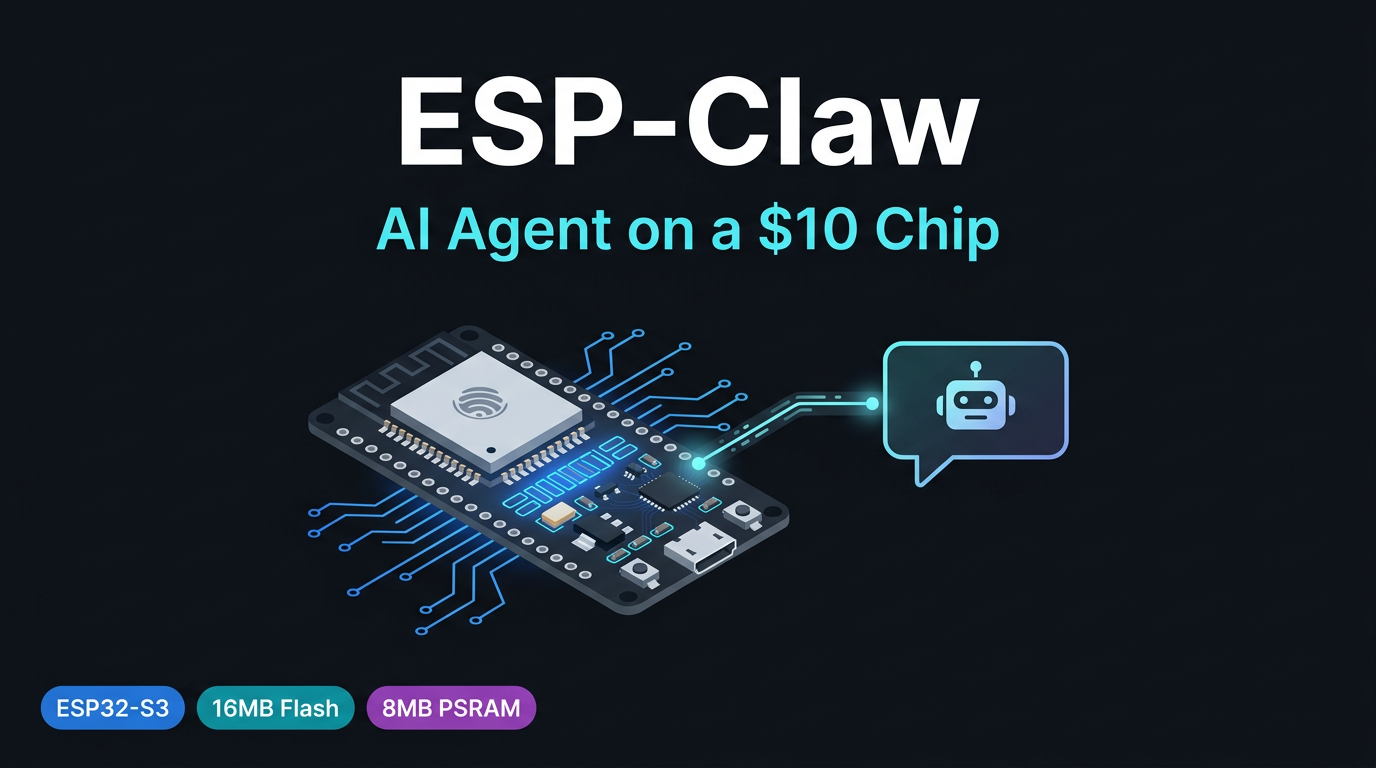
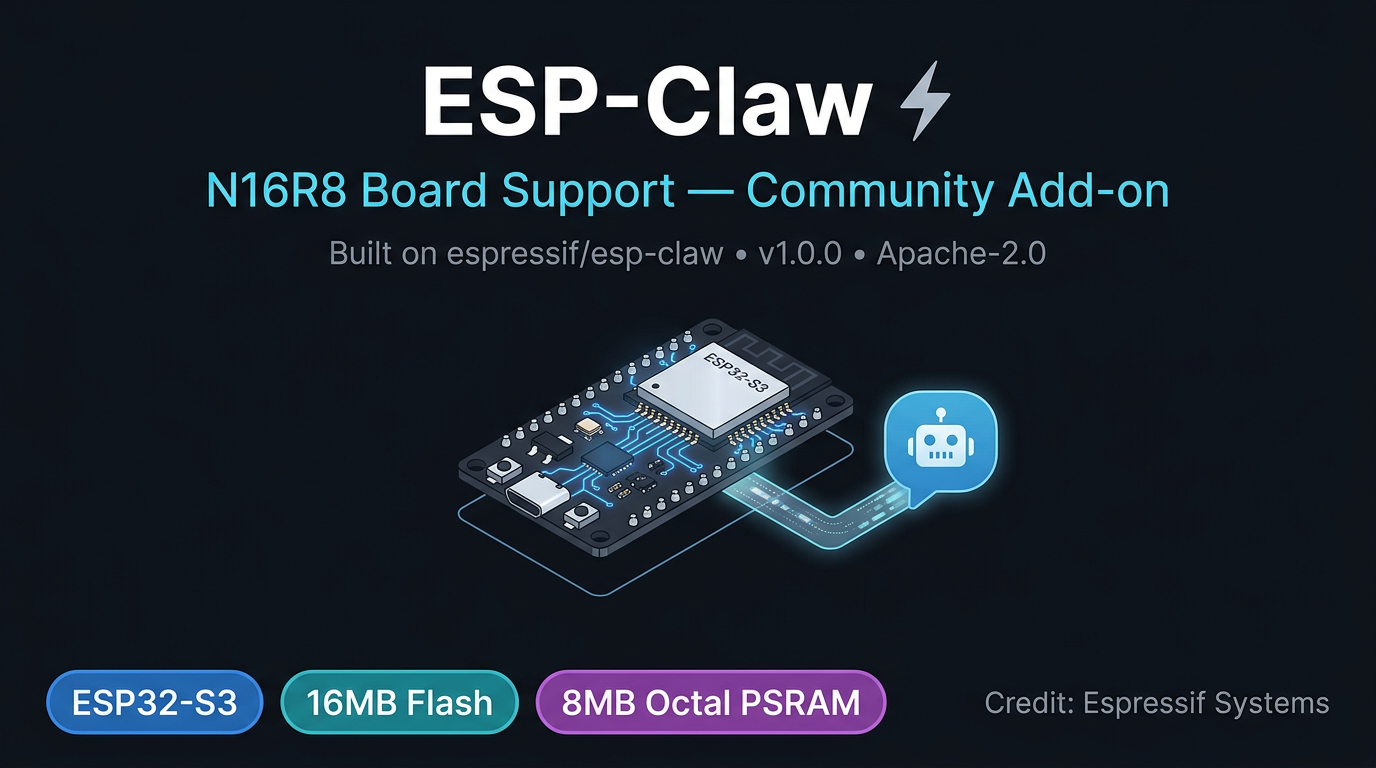
docs: update cover image and README credits to clearly attribute espressif/esp-claw
Made-with: Cursor

diff --git a/README.md b/README.md
@@ -4,7 +4,7 @@
 
 Run an AI agent on a $10 chip. No Linux. No Node.js. No server. Just an ESP32-S3, your Wi-Fi, and a Telegram bot.
 
-This repo contains a pre-built firmware for the **ESP32-S3 N16R8** (16MB flash + 8MB embedded PSRAM) — a board that is not yet in the official ESP-Claw web flasher. Everything here is built on top of [Espressif's esp-claw](https://github.com/espressif/esp-claw), which is the open-source AI agent framework that makes this possible.
+> **Credit where it's due:** This repo is a **community board support add-on**, not an original project. The actual AI agent framework is [espressif/esp-claw](https://github.com/espressif/esp-claw), built by [Espressif Systems](https://github.com/espressif). All the hard work is theirs. What this repo adds is a pre-built firmware binary and custom board configuration for the **ESP32-S3 N16R8** (16MB flash + 8MB embedded PSRAM) — a board variant that is not yet included in the official ESP-Claw web flasher.
 
 ---
 
@@ -213,9 +213,19 @@ See [BUILD_FROM_SOURCE.md](BUILD_FROM_SOURCE.md).
 
 ## Credits
 
-- [espressif/esp-claw](https://github.com/espressif/esp-claw) — the AI agent framework this is built on (Apache-2.0)
-- Espressif Systems — for making the ESP32-S3 and ESP-IDF
-- This repo adds board support for the ESP32-S3 N16R8 and a ready-to-flash firmware build
+This repo would not exist without the following:
+
+| Project | What they made | Link |
+|---|---|---|
+| **espressif/esp-claw** | The entire AI agent framework — chat, LLM, Telegram, scheduling, everything | [github.com/espressif/esp-claw](https://github.com/espressif/esp-claw) |
+| **Espressif Systems** | The ESP32-S3 chip, ESP-IDF toolchain, and esptool | [espressif.com](https://www.espressif.com/) |
+| **Anthropic / OpenAI** | The AI models (Claude, GPT) that make the agent actually useful | — |
+| **OpenRouter** | The API gateway used for model access | [openrouter.ai](https://openrouter.ai) |
+
+This repo only adds:
+- A board config for the ESP32-S3 N16R8 (16MB flash + 8MB embedded octal PSRAM)
+- A pre-built binary so you can flash without setting up ESP-IDF
+- This friendly guide
 
 ---
 
